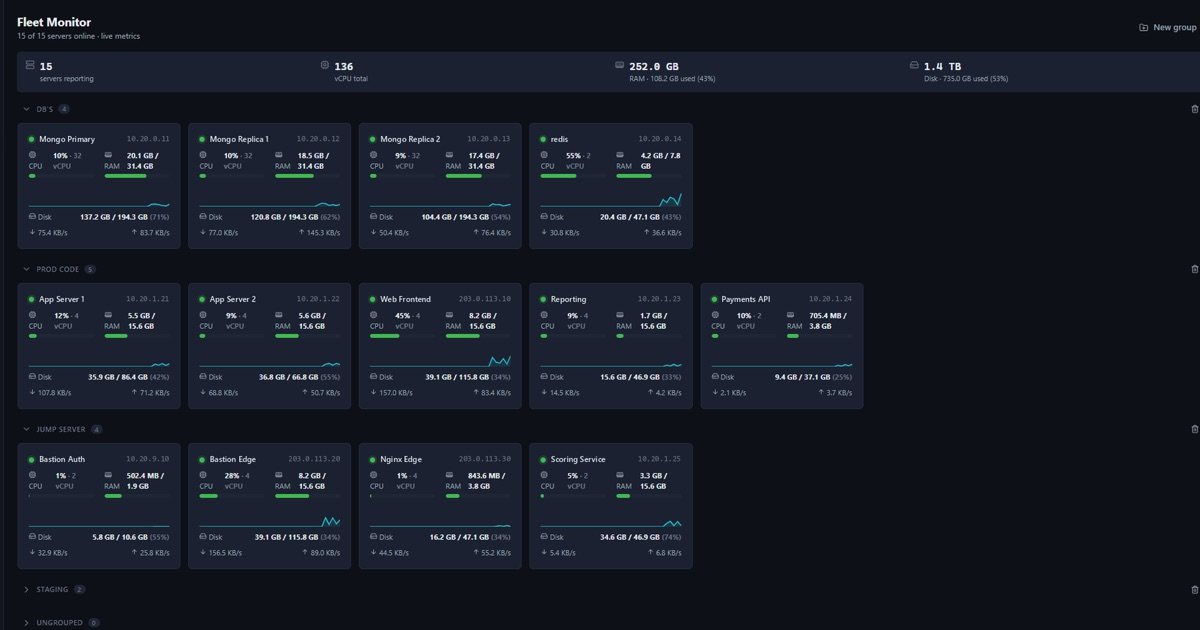
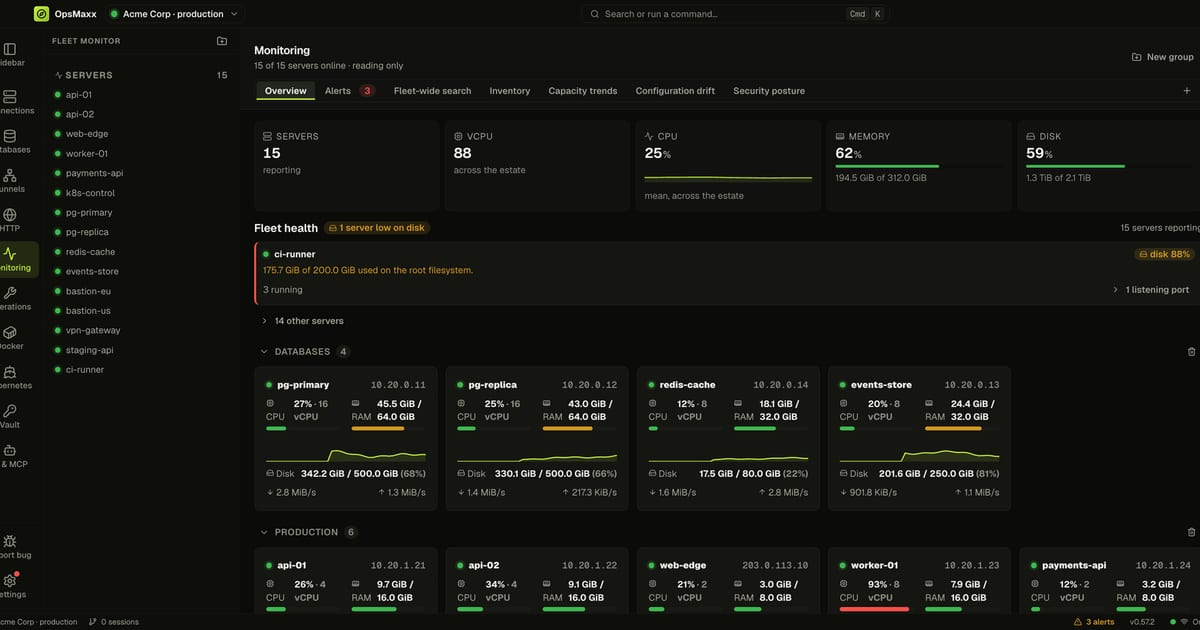
Thirteen new screenshots, in the new theme, and a tour for the agents
Every screenshot on the page was a hand capture of a live fleet in the old
teal theme. These come from the app's `npm run demo:shots`: an invented
estate, captured by the app itself, so they can be re-taken for any
release. scripts/shots.mjs turns the captures into the webp steps the page
asks for and a new og.jpg (64 KB; WhatsApp drops anything over 300).

The product tour grows from four slides to ten -- Terminal, Files,
Databases, Docker, Kubernetes, Posture, Vault and HTTP join Workspaces and
Fleet -- and AI access, Approvals and the Audit log move to a second tour in
the agents section, where they belong. ProductTour takes its slides as a
prop so both are the same component.

Images live under /shots/v2/: /shots/* is cached for a week and not
content-hashed, so reusing the old names would have kept serving the old
pictures. The old set and the unreferenced og-card.png are gone.

Two claims corrected while writing the copy, both against the app's
policyStore.ts: five access groups ship, not four, and the MCP page now
names all five.

diff --git a/src/data/copy.ts b/src/data/copy.ts
@@ -26,7 +26,7 @@ export const hero = {
   ctaSecondary: 'View on GitHub',
   trust: 'No account. No telemetry. No paid tier.',
   shot: {
-    src: '/shots/fleet.png',
+    src: '/shots/v2/fleet.png',
     alt: 'The OpsMaxx fleet monitor: fifteen servers grouped by role, each with live CPU, memory, disk and network',
     caption: 'Fleet monitor · 15 servers, live metrics'
   }
@@ -50,6 +50,11 @@ export type TourItem = {
   alt: string
 }
 
+// Screenshots come from the app repo's `npm run demo:shots`, an invented
+// estate (see scripts/shots.mjs). Every claim below is one the app makes on the
+// screen shown, or one the rest of this page already makes.
+const shot = (name: string): string => `/shots/v2/${name}.png`
+
 export const tour: TourItem[] = [
   {
     id: 'workspaces',
@@ -61,8 +66,8 @@ export const tour: TourItem[] = [
       'Agents are scoped to a workspace and cannot see past it',
       'Each one backs up and restores as a single encrypted file'
     ],
-    shot: '/shots/workspaces.png',
-    alt: 'Workspace manager listing separate workspaces for different clients, one of them password-protected'
+    shot: shot('workspaces'),
+    alt: 'Workspace manager listing three client workspaces, one of them locked with a password'
   },
   {
     id: 'fleet',
@@ -71,24 +76,112 @@ export const tour: TourItem[] = [
     body: 'Group servers by role and watch CPU, memory, disk and network across all of them. Background checks keep running while you are looking at something else.',
     bullets: [
       'Live metrics per server, grouped how you work',
-      'Alerts on CPU, memory and failed systemd units',
+      'Fleet health leads with the one server that needs you',
       'Webhooks to Slack, Discord or Teams — names, never hostnames'
     ],
-    shot: '/shots/fleet.png',
-    alt: 'Fleet monitor showing fifteen servers grouped into databases, production, jump servers and staging'
+    shot: shot('fleet'),
+    alt: 'Fleet monitor: fifteen servers grouped into databases and production, with CPU, memory, disk and network for each'
   },
+  {
+    id: 'terminal',
+    tab: 'Terminal',
+    headline: 'A real terminal, on the connection you already have.',
+    body: 'A GPU-rendered xterm with split panes and search, and a live monitor strip for the server under it. Jump hosts, two-factor and keys are settled once per connection, not once per tab.',
+    bullets: ['Split panes and search', 'Unlimited jump hosts, each with its own credentials', 'Live CPU, memory, disk and network under the prompt'],
+    shot: shot('terminal'),
+    alt: 'A terminal session on api-01 running uptime, docker ps and systemctl status, with a live monitor strip below'
+  },
+  {
+    id: 'files',
+    tab: 'Files',
+    headline: 'Files beside the shell, on the same session.',
+    body: 'An SFTP browser riding the connection the terminal already opened — no second login, no separate app. Browse, filter, upload and edit in place.',
+    bullets: ['Same connection, same credentials as the terminal', 'Edit a remote file in place', 'Size, modified time and permissions at a glance'],
+    shot: shot('files'),
+    alt: 'The SFTP file browser on api-01 listing a home directory with sizes, dates and permissions'
+  },
+  {
+    id: 'databases',
+    tab: 'Databases',
+    headline: 'Query the database without leaving the window.',
+    body: 'Five engines built in — Postgres, MySQL, SQL Server, MongoDB and Redis — each with a query editor, a shell and its own operations view, reachable through a bastion when that is the only route.',
+    bullets: ['Tables listed as soon as you connect', 'Results in a grid, with row count and timing', 'Nothing is sent to the server until you press Run'],
+    shot: shot('database'),
+    alt: 'A PostgreSQL connection with its tables listed and a query result grid of recent orders'
+  },
+  {
+    id: 'docker',
+    tab: 'Docker',
+    headline: 'What is running under Docker, grouped the way you deployed it.',
+    body: 'Containers on one host, grouped by compose project, with state, image, uptime and ports — and their logs, disk usage and live stats a click away. It uses the docker binary already on the server.',
+    bullets: ['Grouped by compose project', 'Logs, disk usage and live CPU and memory', 'Nothing is started, stopped or removed until you ask'],
+    shot: shot('docker'),
+    alt: 'Docker containers on a server grouped by compose project, showing running and exited containers'
+  },
+  {
+    id: 'kubernetes',
+    tab: 'Kubernetes',
+    headline: 'Your cluster, through the kubeconfig the server already has.',
+    body: 'Pods, workloads, nodes and events across namespaces, read with kubectl on the server you pick. A pod in CrashLoopBackOff is marked in red, with how often it has restarted.',
+    bullets: [
+      'Pods, workloads, nodes, events, usage and storage',
+      'Reading only, except rollout restart — which asks first',
+      'Never switches your context, never deletes anything'
+    ],
+    shot: shot('kubernetes'),
+    alt: 'Kubernetes pods across namespaces, with one pod in CrashLoopBackOff and its restart count highlighted'
+  },
+  {
+    id: 'posture',
+    tab: 'Posture',
+    headline: 'How locked-down every server is, in one table.',
+    body: 'Firewall, SELinux or AppArmor, sshd settings, failed logins, security updates, OOM kills and certificate expiry, for every server at once. A check that could not run is reported as exactly that — never as a pass.',
+    bullets: ['The weak sshd settings named, per server', 'Failed logins and OOM kills over a stated window', 'Unread is shown as unread, not as clean'],
+    shot: shot('posture'),
+    alt: 'Security posture table for fifteen servers, flagging two with weak sshd settings and one killing processes for memory'
+  },
+  {
+    id: 'vault',
+    tab: 'Vault',
+    headline: 'One encrypted store for every credential.',
+    body: 'AES-256-GCM for logins, API keys, SSH keys and free-form notes, filed per workspace. Servers point at an entry instead of copying it, and no MCP tool can read it.',
+    bullets: ['Logins, keys, SSH keys, VPN profiles and notes', 'Per-workspace, or shared on purpose', 'Touch ID unlock on a Mac, or lock it by hand'],
+    shot: shot('vault'),
+    alt: 'The vault unlocked, showing a login entry with its URL, username and a hidden password'
+  },
+  {
+    id: 'http',
+    tab: 'HTTP',
+    headline: 'An API client that can leave through any server.',
+    body: 'Send requests from this machine or through any server’s SSH connection, with environments, collections and history. WebSocket and GraphQL too, and it imports OpenAPI specs and cURL commands.',
+    bullets: ['Route a request through a server you are connected to', 'Collections, environments and history', 'WebSocket, GraphQL, OpenAPI and cURL import'],
+    shot: shot('http'),
+    alt: 'The HTTP client showing a GET request and its pretty-printed JSON response with status and timing'
+  }
+]
+
+export const agentTour: TourItem[] = [
   {
     id: 'access',
     tab: 'AI access',
     headline: 'Decide what an agent may do, one capability at a time.',
     body: 'Access groups are not a single yes/no switch. Every capability is ALLOW, ASK or DENY, and you can override individual file paths on top of that.',
     bullets: [
-      'Four groups ship with the app; add as many as you want',
+      'Five groups ship with the app; add as many as you want',
       'ASK holds the request in Approvals until you answer',
       'Escalation shells are refused for every group'
     ],
-    shot: '/shots/access.png',
+    shot: shot('access'),
     alt: 'Access group editor with ALLOW, ASK and DENY set per capability'
+  },
+  {
+    id: 'approvals',
+    tab: 'Approvals',
+    headline: 'When an agent asks, you see exactly what it wants to run.',
+    body: 'The request waits, blocked, until you answer. You get the command, where it would run, how risky it is and why — and the agent’s own reason, marked as its words, not OpsMaxx’s.',
+    bullets: ['Auto-denies if nobody answers in time', 'Approve once, deny, or decide later', 'One button to deny and stop all AI access'],
+    shot: shot('approval'),
+    alt: 'An approval dialog: Claude Code asking to run sudo systemctl restart nginx on api-01, rated high risk'
   },
   {
     id: 'audit',
@@ -100,7 +193,7 @@ export const tour: TourItem[] = [
       'Denied actions logged as loudly as successful ones',
       'No passwords, keys or tokens, ever'
     ],
-    shot: '/shots/audit.png',
+    shot: shot('audit'),
     alt: 'Audit log listing agent actions with approval state and result'
   }
 ]

diff --git a/src/data/mcp.ts b/src/data/mcp.ts
@@ -18,7 +18,7 @@ export const mcpPage = {
 
   capabilities: {
     title: 'Every capability is ALLOW, ASK or DENY',
-    body: 'An access group is not a single on/off switch. Each capability is set independently, and file paths can be overridden on top of the blanket read and write settings. Four groups ship with the app — Read Only, Read & Write, Sudo Access, Full Access — and you can create as many as you want.',
+    body: 'An access group is not a single on/off switch. Each capability is set independently, and file paths can be overridden on top of the blanket read and write settings. Five groups ship with the app — Read Only, Commands with no writes, Read & Write, Sudo Access, Full Access — and you can create as many as you want.',
     states: [
       { name: 'ALLOW', line: 'Runs immediately, and is written to the audit log.' },
       { name: 'ASK', line: 'Waits in Approvals. The agent blocks until you answer.' },

diff --git a/src/components/islands/ProductTour.tsx b/src/components/islands/ProductTour.tsx
@@ -2,9 +2,10 @@ import { useState } from 'react'
 import { Check } from 'lucide-react'
 import { Tabs, TabsList, TabsTrigger } from '@/components/ui/tabs'
 import { cn } from '@/lib/utils'
-import { tour } from '@/data/copy'
+import type { TourItem } from '@/data/copy'
 
-export function ProductTour() {
+/** A tab strip and one screenshot frame. Used twice: the product, and the agents section. */
+export function ProductTour({ items: tour }: { items: TourItem[] }) {
   const [active, setActive] = useState(tour[0].id)
   const current = tour.find((t) => t.id === active) ?? tour[0]
 
@@ -56,7 +57,7 @@ export function ProductTour() {
                 src={t.shot}
                 alt={t.alt}
                 width={1800}
-                height={908}
+                height={909}
                 loading="lazy"
                 decoding="async"
                 className={cn(
